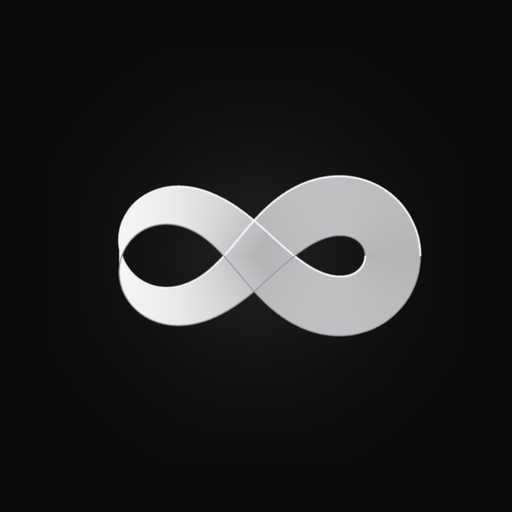
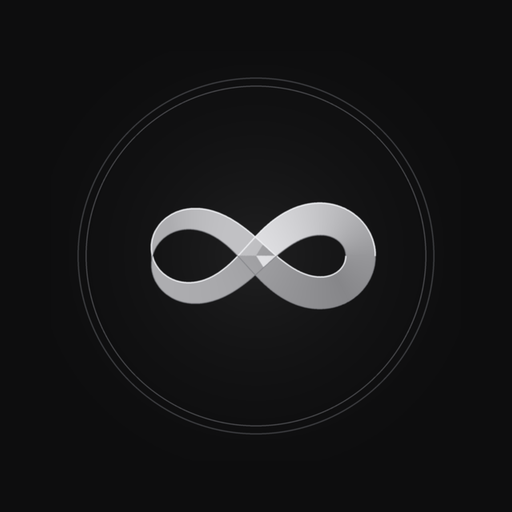
design: 이미지와 동일하게 재구성-앱바(원형배지+이름+기어), 섹션 1 IDEA CHAT/2 PRODUCT SEARCH/3 WRITE&EXPORT, 레이더를 최상단 IDEA CHAT에, 하단 플로팅 페이저(1 2 3) / 아이콘 클래식 메달리온 ∞(이중링+조각된 은빛)

diff --git a/index.html b/index.html
@@ -1,7 +1,7 @@
 <!DOCTYPE html>
 <html lang="ko">
 <head>
-<meta name="build" content="0713-0344">
+<meta name="build" content="0713-0353">
 <meta http-equiv="Cache-Control" content="no-cache, no-store, must-revalidate">
 <meta http-equiv="Pragma" content="no-cache">
 <meta http-equiv="Expires" content="0">
@@ -200,7 +200,7 @@
   .stepper .dot.on{background:var(--mint);color:var(--mint-ink);border-color:transparent}
   .stepper .bar{flex:1;height:1px;background:var(--line)}
   /* 스텝 카드: 각 섹션 분리 */
-  .step-card{background:var(--surface-1);border:1px solid var(--line);border-radius:var(--radius);padding:16px;margin-bottom:14px}
+  .step-card{background:var(--surface-1);border:1px solid var(--line);border-radius:var(--radius);padding:16px;margin-bottom:14px;scroll-margin-top:80px}
   .step-card .sec-head{margin:0 0 12px}
   .hint{font-size:12px;color:var(--text-2);margin-top:10px;padding:10px;background:var(--surface-1);border-radius:8px;line-height:1.5}
   .nia-wrap{padding-right:24px;min-height:200px}
@@ -333,7 +333,7 @@
   .seg-refresh:active{color:var(--text)}
 
   /* 카테고리 칩 줄 */
-  .radar-cats{display:flex;gap:6px;overflow-x:auto;padding-bottom:12px;scrollbar-width:none}
+  .radar-cats{display:flex;gap:6px;overflow-x:auto;padding:0 0 12px;scrollbar-width:none;margin:0 -2px}
   .radar-cats::-webkit-scrollbar{display:none}
   .radar-cats .chip{flex:0 0 auto;font-size:12.5px;padding:8px 15px}
 
@@ -376,6 +376,25 @@
   .pbtn:last-child{margin-bottom:0}
   .pbtn-primary{background:linear-gradient(180deg,#FFFFFF,#E9EAEC);color:#0A0A0B;border-color:transparent;font-weight:600}
   @media (max-width:380px){ .prod-name{font-size:11px} .pbtn{font-size:10.5px;padding:7px 3px} }
+  /* ── 앱바 (이미지: 원형배지 + 이름 + 기어) ── */
+  .appbar{display:flex;align-items:center;justify-content:space-between;padding:14px 18px;position:sticky;top:0;z-index:50;
+    background:rgba(13,13,14,.86);backdrop-filter:blur(18px) saturate(140%);border-bottom:1px solid rgba(255,255,255,.06)}
+  .brand{display:flex;align-items:center;gap:12px}
+  .brand-badge{width:46px;height:46px;border-radius:14px;display:grid;place-items:center;font-size:19px;font-weight:700;
+    background:linear-gradient(180deg,#FFFFFF,#DEDFE2);color:#0A0A0B;box-shadow:0 1px 0 rgba(255,255,255,.8) inset,0 6px 18px rgba(0,0,0,.4);cursor:pointer}
+  .brand-name{font-size:19px;font-weight:600;letter-spacing:.02em;color:var(--text)}
+  .gear-btn{width:46px;height:46px;border-radius:14px;display:grid;place-items:center;font-size:19px;cursor:pointer;
+    background:rgba(255,255,255,.05);border:1px solid rgba(255,255,255,.10);color:var(--text-2);transition:all .16s}
+  .gear-btn:active{transform:scale(.96);background:rgba(255,255,255,.09)}
+
+  /* ── 하단 플로팅 페이저 (1 2 3) ── */
+  .pager{position:fixed;left:50%;transform:translateX(-50%);bottom:78px;z-index:60;display:flex;gap:2px;
+    background:rgba(30,31,34,.92);backdrop-filter:blur(16px);border:1px solid rgba(255,255,255,.09);
+    border-radius:999px;padding:6px;box-shadow:0 10px 30px rgba(0,0,0,.5)}
+  .pg{width:56px;height:34px;border-radius:999px;border:none;background:transparent;color:var(--muted);
+    font-size:14px;font-weight:600;cursor:pointer;position:relative;transition:color .16s}
+  .pg.on{color:var(--text)}
+  .pg.on::after{content:'';position:absolute;left:50%;bottom:2px;transform:translateX(-50%);width:4px;height:4px;border-radius:50%;background:#fff}
 </style>
 </head>
 <body>
@@ -411,28 +430,30 @@
 
 <!-- 메인 앱 -->
 <div id="appView" class="hidden">
-  <div class="top">
-    <div class="logo">Link<span>Lynk</span></div>
-    <div class="av" id="avatar" onclick="go('settings')" title="설정">⚙</div>
+  <div class="top appbar">
+    <div class="brand">
+      <div class="brand-badge" id="avatar">L</div>
+      <div class="brand-name">LINKLYNK</div>
+    </div>
+    <button class="gear-btn" onclick="go('settings')" title="설정">⚙</button>
   </div>
 
   <!-- 만들기 -->
   <div class="page on" id="page-make">
     <div class="hero">
-      <div class="stepper">
-        <div class="dot on">1</div><div class="bar"></div>
-        <div class="dot">2</div><div class="bar"></div>
-        <div class="dot">3</div>
-      </div>
       <div class="sec-head">
-        <div class="sec-num">◆</div>
+        <div class="sec-num">1</div>
         <div class="sec-meta">
-          <div class="sec-kicker">Create</div>
-          <div class="sec-title">주제 → 상품 → 글, 한 번에</div>
+          <div class="sec-kicker">IDEA CHAT</div>
+          <div class="sec-title">오늘 쓸 주제 찾기</div>
         </div>
       </div>
+      <div class="step-card" id="ideaCard">
+        <div id="trendRadarTop"></div>
+      </div>
+
       <div class="step-card">
-      <div class="sec-head"><div class="sec-num">1</div><div class="sec-meta"><div class="sec-kicker">Input</div><div class="sec-title">어떻게 시작할까요?</div></div></div>
+      <div class="sec-head"><div class="sec-num">2</div><div class="sec-meta"><div class="sec-kicker">PRODUCT SEARCH</div><div class="sec-title">연결할 상품 찾기</div></div></div>
       <div class="modeToggle" style="display:flex;gap:4px;margin-bottom:0;background:var(--surface-1);border:1px solid var(--line);border-radius:14px;padding:4px;overflow-x:auto;scrollbar-width:none;-webkit-overflow-scrolling:touch">
         <button class="mode on" data-mode="auto" onclick="setMode(this)">간편링크 자동생성</button>
         <button class="mode" data-mode="manual" onclick="setMode(this)">링크 직접 붙여넣기</button>
@@ -441,7 +462,6 @@
       </div>
       </div>
       <div class="step-card">
-      <div class="sec-head"><div class="sec-num">2</div><div class="sec-meta"><div class="sec-kicker">Product</div><div class="sec-title">상품·주제 정하기</div></div></div>
       <div class="pastebox" id="pasteBox">
         <textarea id="url" placeholder="쿠팡 상품 링크 붙여넣기&#10;(앱 공유링크 그대로 OK)"></textarea>
         <input id="pname" placeholder="상품 이름 (선택 — 나중에 찾기 쉬워요)" style="border:none;background:none;box-shadow:none;padding:4px 12px 8px;font-size:13.5px;color:var(--text-2)">
@@ -468,7 +488,7 @@
       </div>
     </div>
     <div class="step-card" style="margin:0 20px 14px">
-    <div class="sec-head"><div class="sec-num">3</div><div class="sec-meta"><div class="sec-kicker">Write</div><div class="sec-title">채널 · 말투 고르기</div></div></div>
+    <div class="sec-head"><div class="sec-num">3</div><div class="sec-meta"><div class="sec-kicker">WRITE &amp; EXPORT</div><div class="sec-title">글 작성하고 내보내기</div></div></div>
     <div class="chips" style="padding:0 0 4px">
       <div class="chip on" data-ch="blog" onclick="setCh(this)">블로그</div>
       <div class="chip" data-ch="insta" onclick="setCh(this)">인스타</div>
@@ -638,6 +658,11 @@
     </div>
   </div>
 
+  <div class="pager" id="pager">
+    <button class="pg on" onclick="jumpSec(1,this)">1</button>
+    <button class="pg" onclick="jumpSec(2,this)">2</button>
+    <button class="pg" onclick="jumpSec(3,this)">3</button>
+  </div>
   <div class="tabbar">
     <button class="tab on" data-p="make" onclick="go('make')"><span class="tab-ic">⚡</span>만들기</button>
     <button class="tab" data-p="profile" onclick="go('profile')"><span class="tab-ic">🔗</span>내 링크</button>
@@ -647,6 +672,6 @@
 </div>
 
 <script src="https://cdnjs.cloudflare.com/ajax/libs/html2canvas/1.4.1/html2canvas.min.js"></script>
-<script src="/app.js?v=1783914278"></script>
+<script src="/app.js?v=1783914797"></script>
 </body>
 </html>

diff --git a/app.js b/app.js
@@ -127,7 +127,7 @@ function showApp(me){
   document.getElementById('appView').classList.remove('hidden');
   // 아바타
   const initial = (me.handle || me.email || '?')[0].toUpperCase();
-  document.getElementById('avatar').textContent = initial;
+  const av=document.getElementById('avatar'); if(av) av.textContent = initial;
   // 프로필 주소
   const base = location.origin;
   document.getElementById('profileUrl').textContent = me.handle ? `${base}/u/${me.handle}` : '프로필 주소 미설정';
@@ -136,6 +136,7 @@ function showApp(me){
   renderKeyStatus(me);
   if(me.has_sns) loadSnsAccounts();
   renderLlmPicker();
+  loadRadar();
   // 북마클릿으로 가져온 쿠팡 이미지가 있으면 표시
   if(window.__bmkImages && window.__bmkImages.images){
     setTimeout(()=>showBmkImages(window.__bmkImages), 400);
@@ -1117,11 +1118,11 @@ function renderClaude(me){
 let radarCat = '추천';
 let radarRange = '24시간';
 async function loadRadar(refresh){
-  const box = document.getElementById('trendRadar');
+  const box = document.getElementById('trendRadarTop') || document.getElementById('trendRadar');
   if(!box) return;
   if(!box.dataset.init){
     box.dataset.init = '1';
-    box.innerHTML = `<div style="padding:16px 16px 6px">
+    box.innerHTML = `<div style="padding:0">
       <div style="display:flex;align-items:center;gap:8px;margin-bottom:6px">
         <span class="live-dot"></span>
         <span style="font-size:10px;font-weight:700;letter-spacing:.16em;color:var(--muted)">LIVE SIGNAL</span>
@@ -1903,3 +1904,21 @@ function toast(m){
 }
 
 boot();
+
+
+// 하단 페이저: 섹션으로 점프
+function jumpSec(n, el){
+  document.querySelectorAll('.pg').forEach(p=>p.classList.remove('on'));
+  if(el) el.classList.add('on');
+  const cards = document.querySelectorAll('#page-make .step-card');
+  const target = cards[n-1];
+  if(target) target.scrollIntoView({behavior:'smooth', block:'start'});
+}
+// 스크롤에 따라 페이저 활성 갱신
+window.addEventListener('scroll', ()=>{
+  const cards = [...document.querySelectorAll('#page-make .step-card')];
+  if(!cards.length) return;
+  let idx = 0;
+  cards.forEach((c,i)=>{ if(c.getBoundingClientRect().top < window.innerHeight*0.4) idx = i; });
+  document.querySelectorAll('.pg').forEach((p,i)=>p.classList.toggle('on', i===idx));
+}, {passive:true});